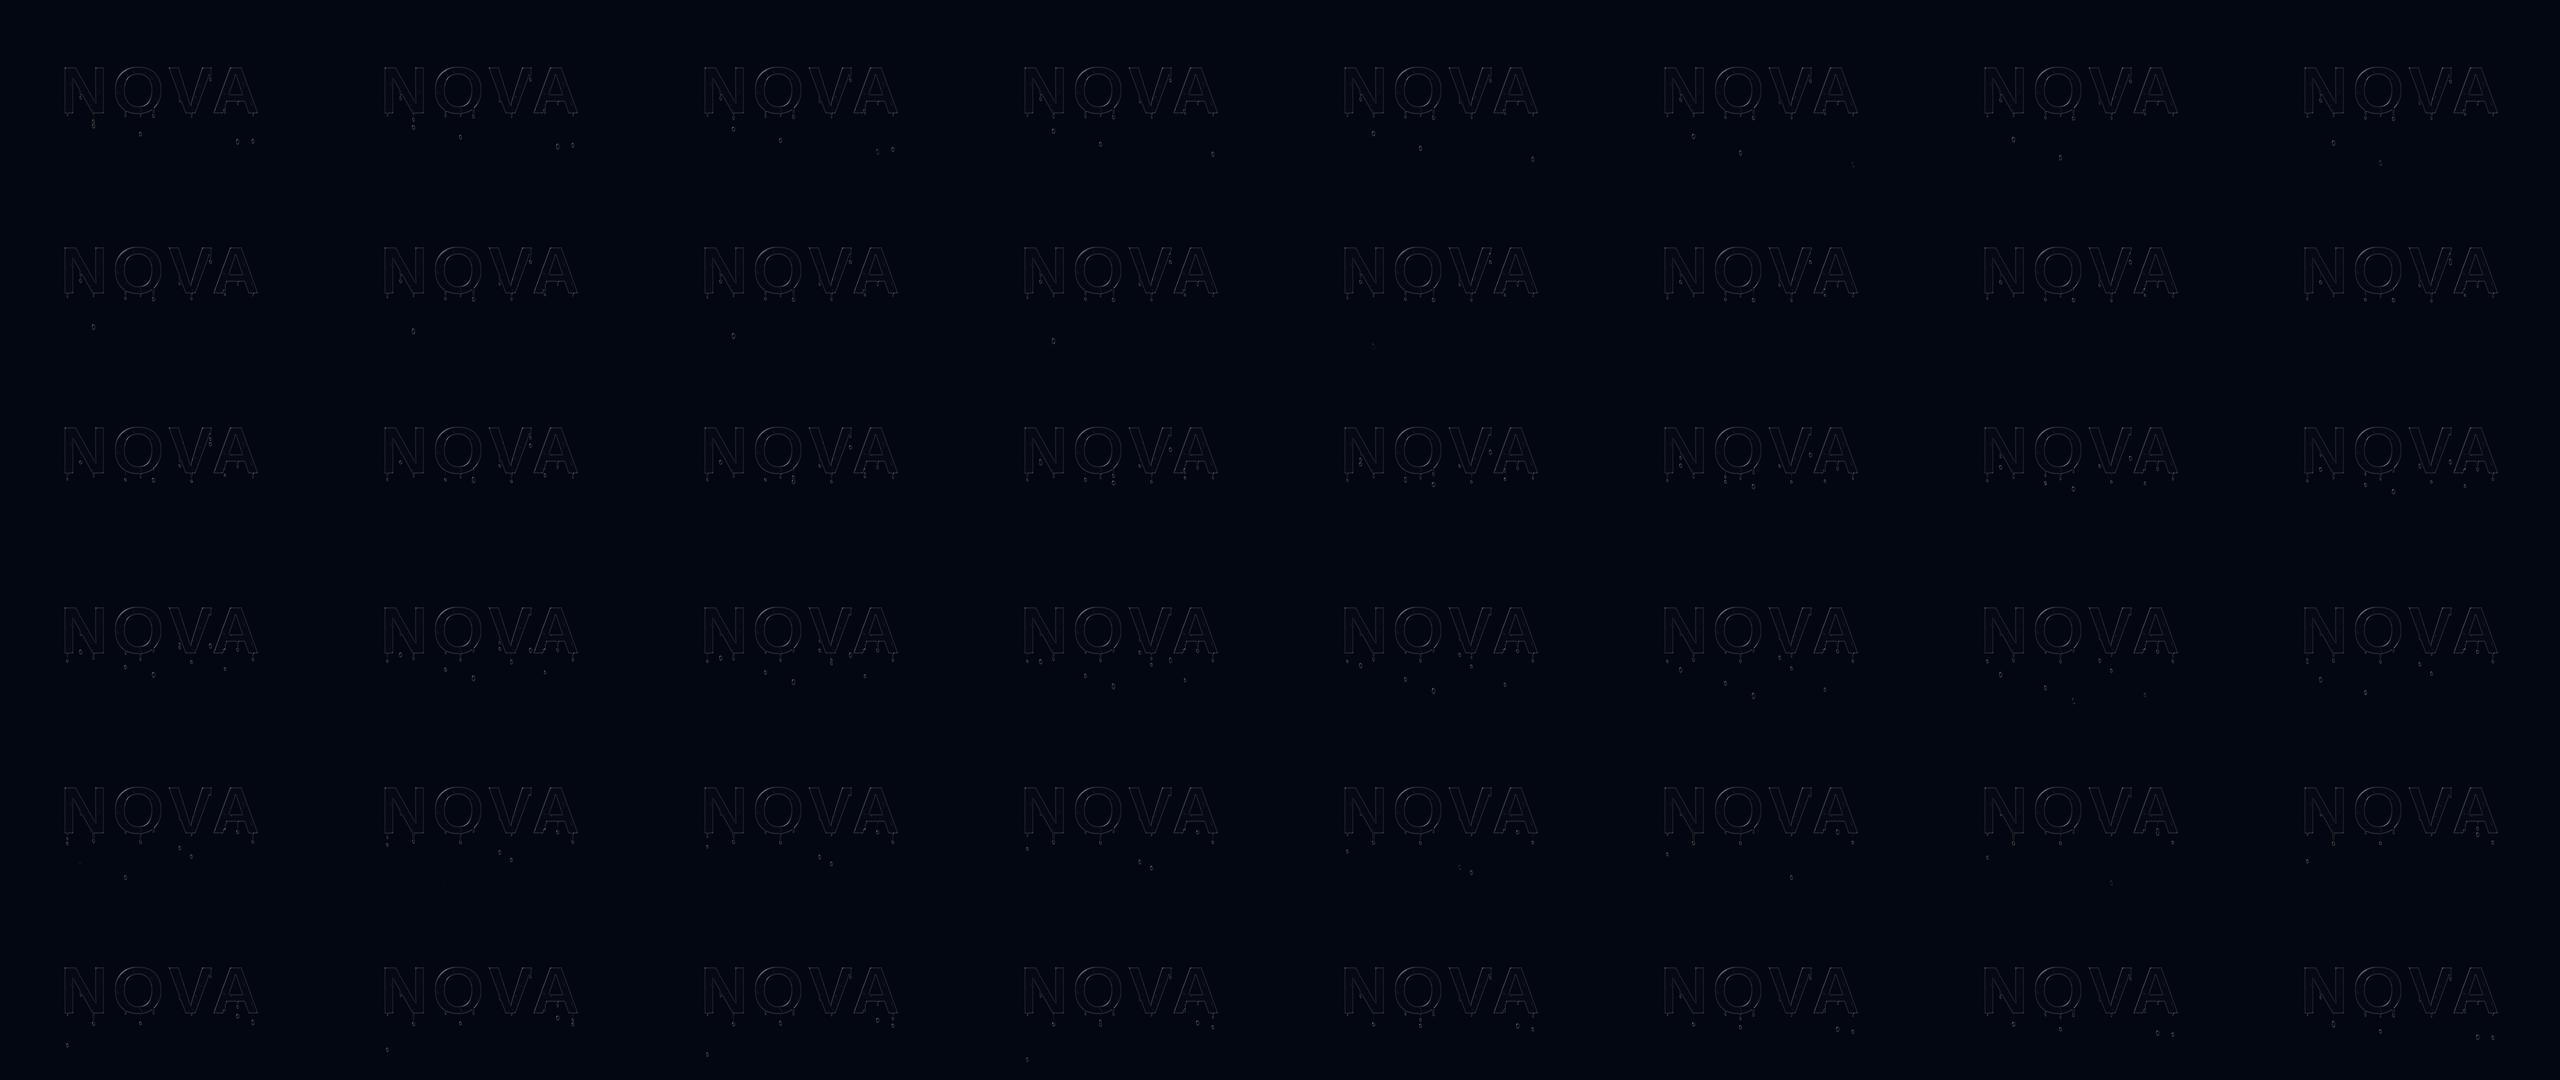
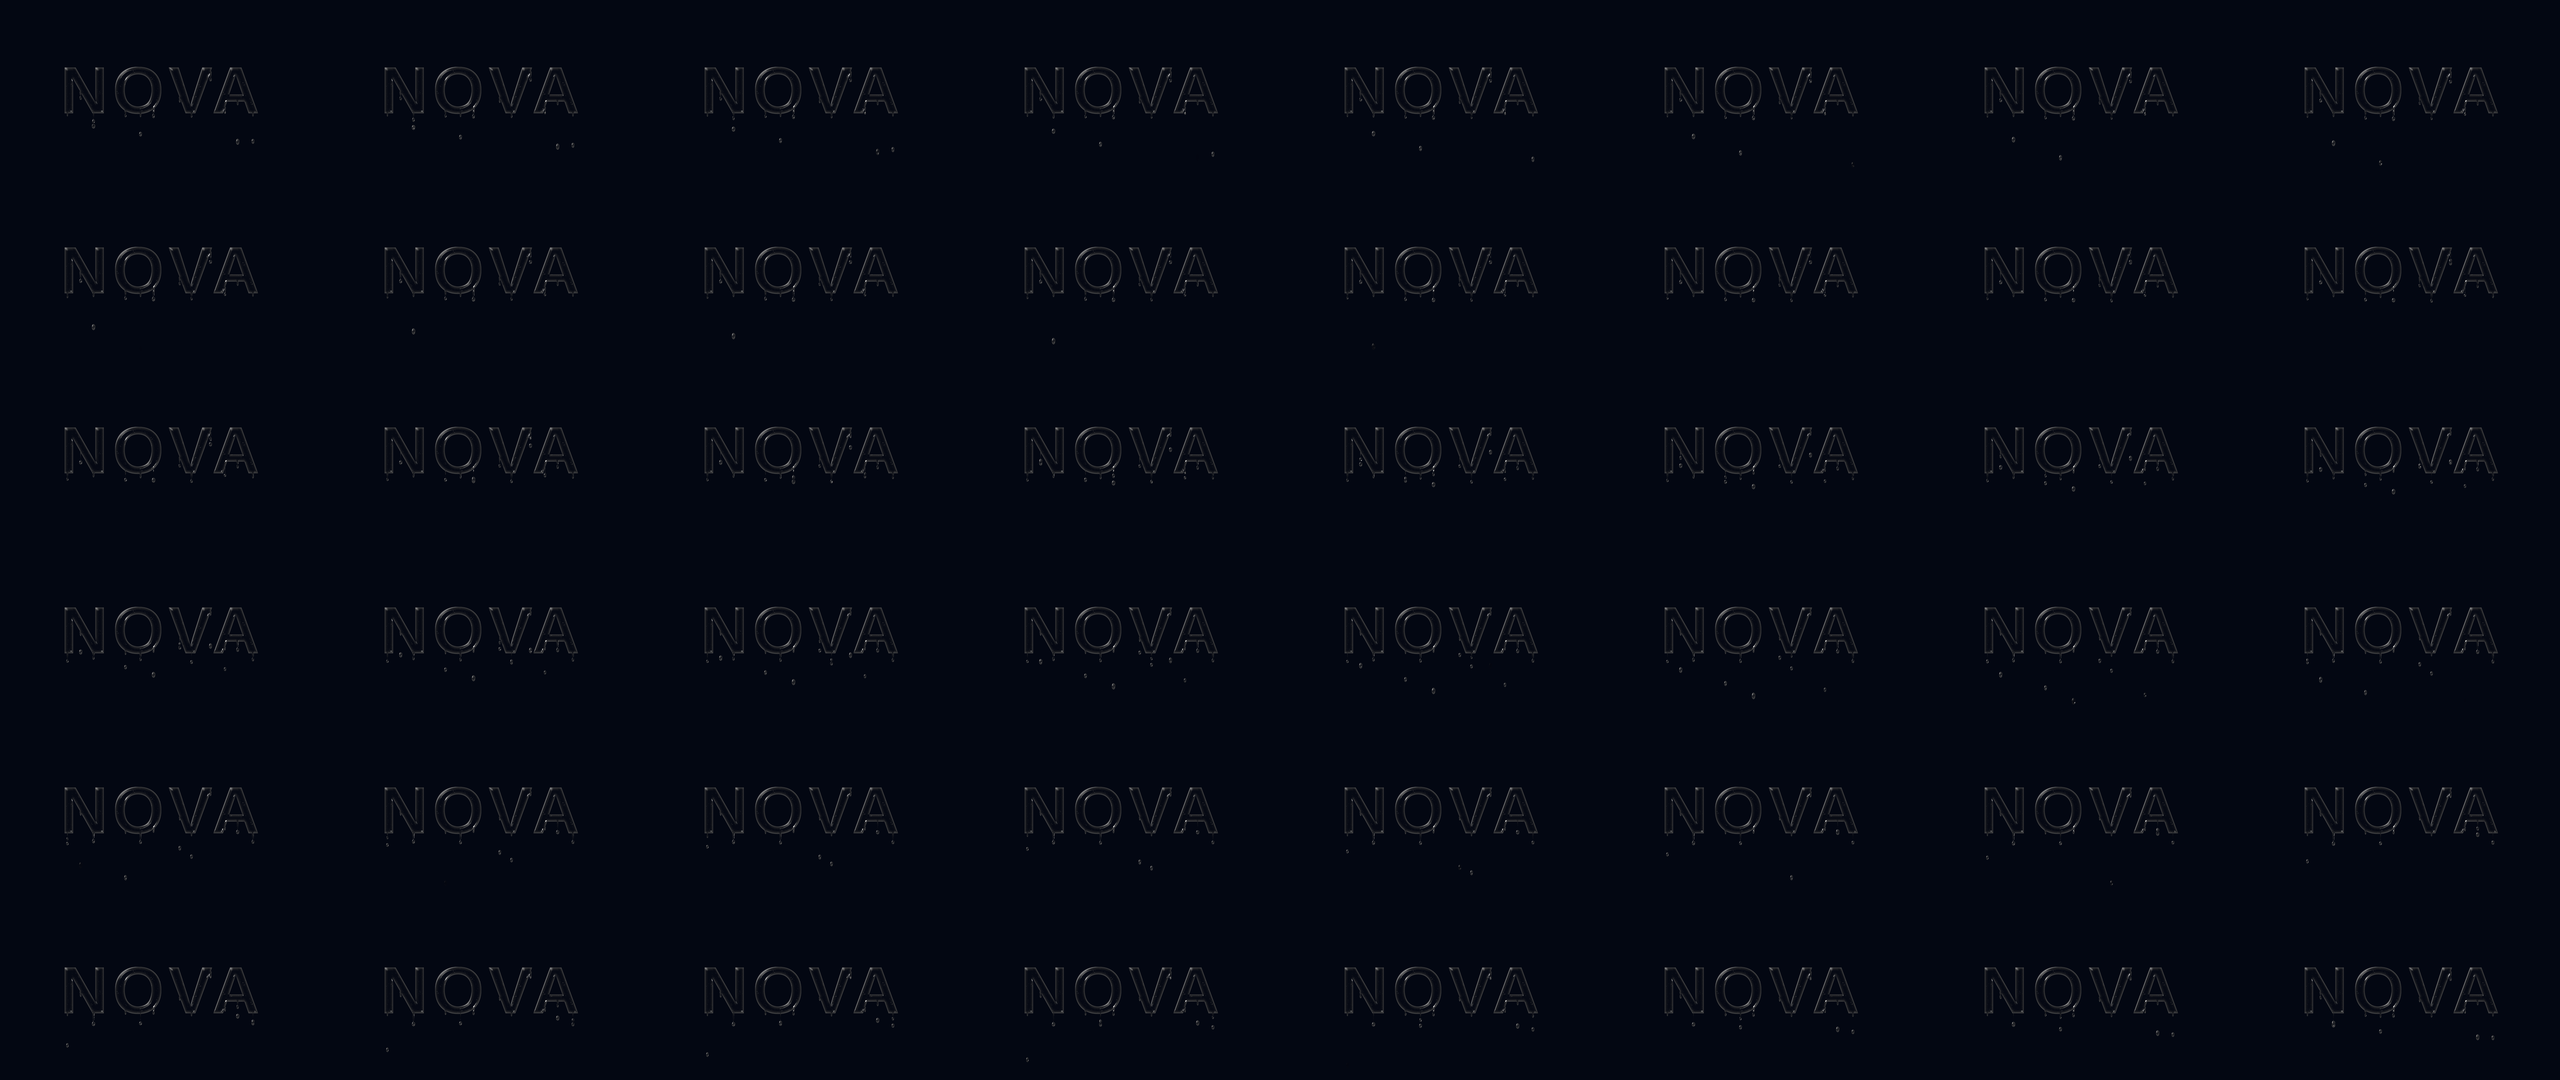
Dome water drips across the whole stroke
The water refracted only inside a thin 5-pixel rim, so flat stroke
interiors passed the background through unchanged and clear water
almost vanished. Bevel and refraction now span the stroke like a bead,
so letters and drops lens what is behind them, with reflections rounded
to match.

diff --git a/crates/veylvik-document/src/presets/builtin/optics.rs b/crates/veylvik-document/src/presets/builtin/optics.rs
@@ -59,9 +59,11 @@ pub fn build(id: &str, b: &mut Builder, source: NodeId) -> Result<NodeId> {
                 let background = external(b, "Background to refract");
                 let water = b.add(
                     "Water refraction",
+                    // Beads are domed across the whole stroke, so the profile spans it
+                    // and every stroke lenses the background, not just a thin rim.
                     Operation::Glass(crate::nodes::Glass {
-                        bevel: 5.0.into(),
-                        refraction: 24.0.into(),
+                        bevel: 12.0.into(),
+                        refraction: 30.0.into(),
                         roughness: 0.0.into(),
                         ior: 1.333.into(),
                         transmission: 0.99.into(),
@@ -97,7 +99,7 @@ pub fn build(id: &str, b: &mut Builder, source: NodeId) -> Result<NodeId> {
                     }),
                     kind: crate::MaterialKind::Silver,
                     scale: 180.0.into(),
-                    bevel: 5.0.into(),
+                    bevel: if id == "water_drips" { 12.0 } else { 5.0 }.into(),
                     roughness: 0.12.into(),
                     lighting: 0.0.into(),
                     grain: 0.0.into(),
